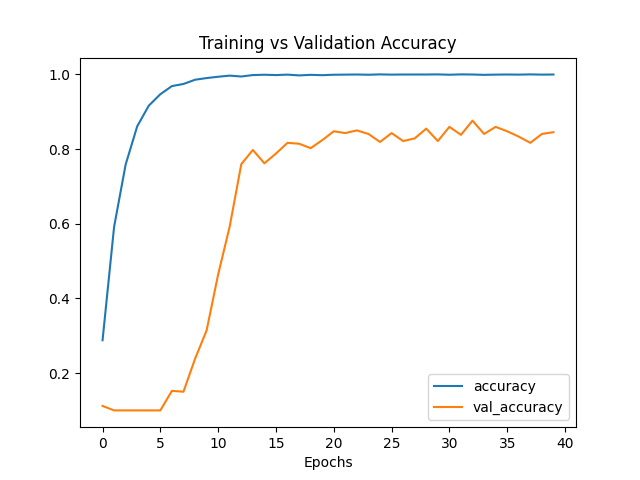
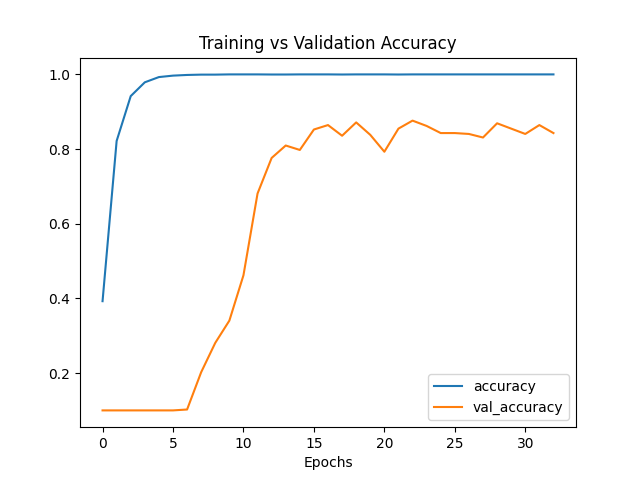
added early stopping

diff --git a/cnn.py b/cnn.py
@@ -2,7 +2,6 @@ import tensorflow as tf
 from tensorflow.keras import Sequential
 from tensorflow.keras import layers
 from tensorflow.keras.preprocessing.image import ImageDataGenerator
-from tensorflow.keras.layers.experimental.preprocessing import RandomCrop, Rescaling
 from tensorflow.keras.callbacks import EarlyStopping
 from tensorflow.keras import optimizers
 import matplotlib.pyplot as plt
@@ -49,7 +48,7 @@ model = Sequential([
   layers.BatchNormalization(),
   layers.MaxPooling2D(),
   layers.BatchNormalization(),
-  layers.Conv2D(32, 3, padding='valid', activation='relu'),
+  layers.Conv2D(32, 3, padding='same', activation='relu'),
   layers.BatchNormalization(),
   layers.MaxPooling2D(),
   layers.BatchNormalization(),
@@ -64,14 +63,14 @@ model = Sequential([
 print(model.summary())
 
 # compile model
-optimizer = optimizers.Adam(learning_rate=0.0001)
+optimizer = optimizers.Adam(learning_rate=0.001)
 model.compile(
     optimizer=optimizer,
     loss='categorical_crossentropy',
     metrics=['accuracy'])
 
 # fit model to data
-epochs = 40
+epochs = 50
 #callback = EarlyStopping(monitor='val_loss', patience=7, mode='min')
 early_stopping = EarlyStopping(
     min_delta=0.001, 
@@ -83,7 +82,7 @@ history = model.fit(
   train_ds,
   validation_data=val_ds,
   epochs=epochs,
-#  callbacks=[early_stopping]
+  callbacks=[early_stopping]
 )
 
 # save model weights to HDF5

diff --git a/evaluate.py b/evaluate.py
@@ -27,7 +27,7 @@ test_dir = os.path.join('data', 'test')
 # set dataset generator parameters
 BATCH_SIZE = 64
 IMG_HEIGHT = 128
-IMG_WIDTH = 147
+IMG_WIDTH = 128
 N_CHANNELS = 3
 
 # load test dataset
@@ -46,8 +46,8 @@ print('model loaded')
 
 # evaluate model on test set
 score = model.evaluate(test_ds, verbose=1, steps=len(test_ds)) 
-test_loss = round(score[0],2)
-test_accuracy = round(score[1],2)*100
+test_loss = round(score[0],3)
+test_accuracy = round(score[1],3)*100
 print('Test loss:', test_loss) 
 print(f'Test accuracy: {test_accuracy} %\n')
 
@@ -69,7 +69,7 @@ for i, file in enumerate(files):
     prob = model.predict(test_img)
     index = np.argmax(prob)
     prob_max = np.max(prob)
-    prob_max = round(float(prob_max),2) * 100
+    prob_max = round(float(prob_max),3) * 100
     # get predicted spaker name
     id = class_names[index]
     metadata = get_metadata()
@@ -81,13 +81,9 @@ for i, file in enumerate(files):
     true_name = true_speaker['VGGFace1 ID'].item()
     # print results 
     print('Prediction: ', i + 1)
-    print(f'Predicted speaker {pred_name} with probability: {prob_max} %')
+    print(f'Predicted speaker {pred_name} with probability {prob_max} %')
     print('True speaker name:', true_name)
     print('')
-
-
-
-
 
 
 

diff --git a/process_files.py b/process_files.py
@@ -1,12 +1,11 @@
 import os
 import pandas as pd
 import matplotlib.pyplot as plt
-import json
 
 
 def map_files_to_ids(dir):
     """
-    This functions creates a dictionary of audio files with keys the speakers ids and values
+    This functions creates a dictionary of audio files that maps the speakers ids to
     the audio files that correspond to them.
 
     :param dir: directory of audio files having the structure of voxceleb data folders
@@ -59,7 +58,6 @@ files_dict = {id: dev_files[id] for id in ids}
 
 # get number of files for training, validation and test set for a 80/10/10 split
 total_files = files_to_keep.sum()
-print(total_files)
 test_files_num = int(total_files * 10 / 100)
 val_files_num = int(total_files * 10 / 100)
 train_files_num = int(total_files - (test_files_num + val_files_num))
